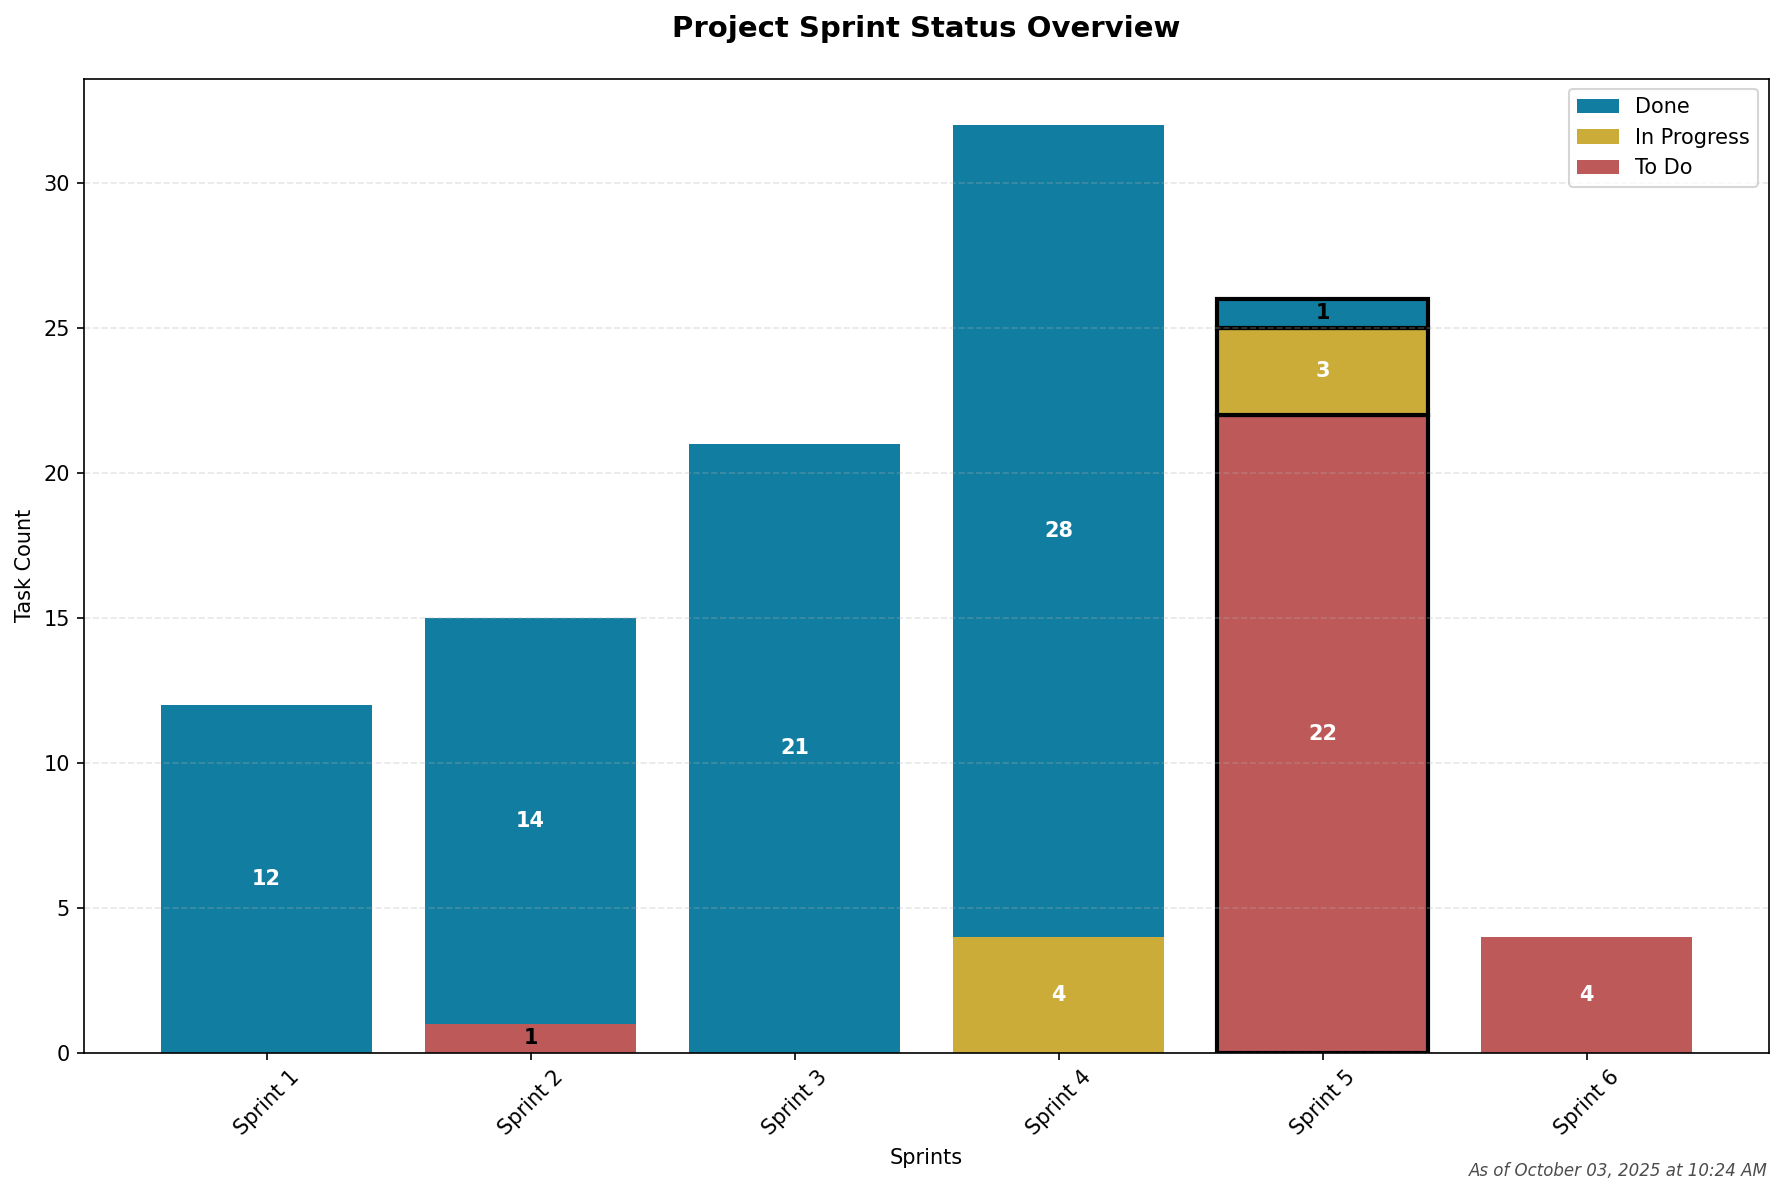
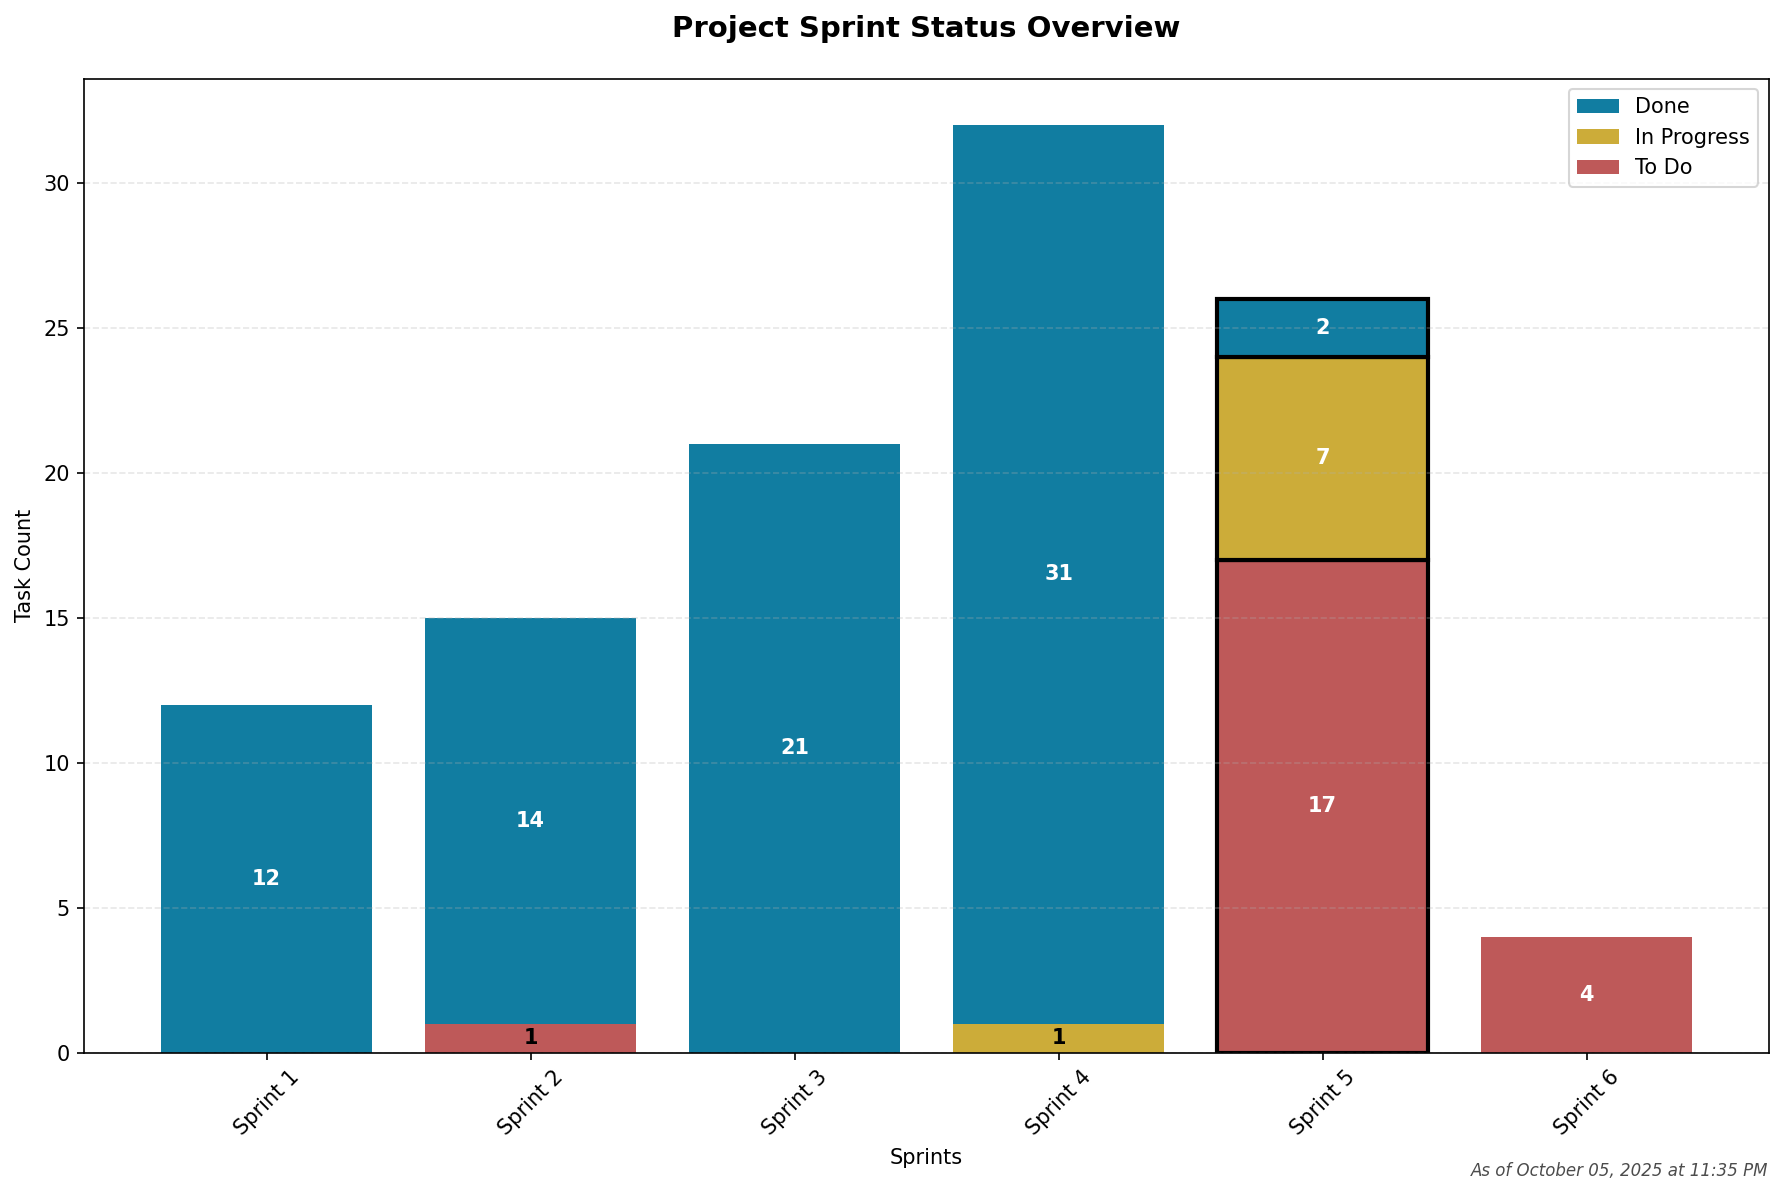
Update project tracker progress and sprint chart
Marked several tasks as completed or in progress in project_tracker.md to reflect current project status. Updated sprint_status_chart.png to match the latest progress.

diff --git a/project_tracker.md b/project_tracker.md
@@ -168,7 +168,7 @@
     - [x] Create feature exclusion list and centralized selector
     - [x] Correlation analysis and multicollinearity detection
     - [x] Feature importance baseline using simple models
-    - [~] Identify optimal feature subset for model training
+    - [x] Identify optimal feature subset for model training
 - [x] Baseline churn prediction model development
     - [x] Baseline models framework (rule-based, simple, logistic regression)
     - [x] XGBoost model implementation with default parameters
@@ -178,10 +178,10 @@
     - [x] Automated data splitting with persistence for reproducibility (temporal and customer-level)
     - [x] Model performance comparison framework structure
     - [x] Prediction storage in feature store with model versioning
-- [~] Initial hyperparameter optimization
+- [x] Initial hyperparameter optimization
     - [x] Automated hyperparameter tuning framework with feature selection
     - [x] Grid search implementation for key parameters
-    - [~] Learning curve analysis capabilities
+    - [x] Learning curve analysis capabilities
 - [x] Model metadata and versioning system
     - [x] Model registry functionality for tracking parameters and performance
     - [~] Integration framework with feature store versioning
@@ -203,17 +203,17 @@
 
 ### Sprint Goals
 - [~] Advanced model optimization and tuning
-    - [~] Bayesian hyperparameter optimization (Optuna or similar)
+    - [x] Bayesian hyperparameter optimization (Optuna or similar)
     - [~] Feature engineering iteration based on model insights
     - [x] Class imbalance handling (SMOTE, class weights, threshold tuning)
-    - [ ] Model ensemble evaluation (XGBoost + XGBoost(Cluster_Features) + Logistic Regression)
-- [ ] SHAP explainability framework implementation
+    - [~] Model ensemble evaluation (XGBoost + XGBoost(Cluster_Features) + Logistic Regression)
+- [~] SHAP explainability framework implementation
     - [ ] Global feature importance analysis across all customers
     - [ ] Individual customer prediction explanations
     - [ ] Feature interaction discovery and visualization
-    - [ ] SHAP value storage in feature store with model lineage
+    - [~] SHAP value storage in feature store with model lineage
     - [ ] Business-friendly explanation templates
-- [ ] Customer segmentation analysis
+- [~] Customer segmentation analysis
     - [ ] UMAP/PCA dimensionality reduction for behavioral features
     - [ ] HDBSCAN clustering with automatic parameter selection
     - [ ] Segment characterization and churn risk profiling
@@ -225,7 +225,7 @@
     - [ ] Model stability testing across different time periods
     - [ ] A/B testing framework design for model deployment
 - [ ] Documentation and knowledge transfer preparation
-    - [ ] Model methodology documentation
+    - [~] Model methodology documentation
     - [ ] SHAP interpretation guide for business stakeholders
     - [ ] Customer segmentation insights summary
 
